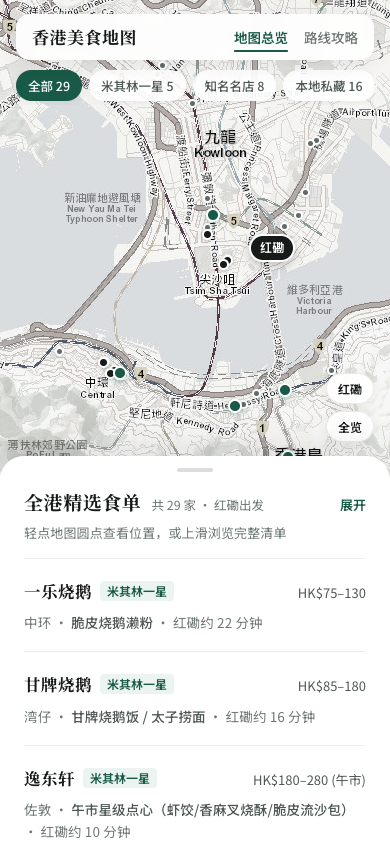
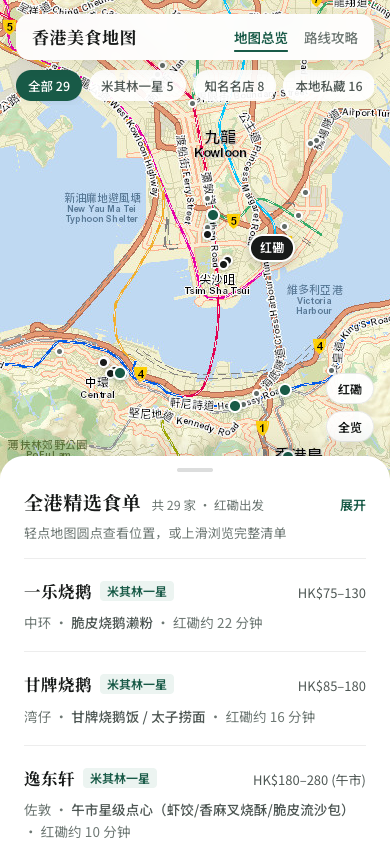
Restore full-color Esri navigation map tiles (v1.1.1)

diff --git a/index.html b/index.html
@@ -86,7 +86,7 @@
 
           <footer class="drawer-footer">
             <div class="footer-left">
-              <span>v1.1.0</span>
+              <span>v1.1.1</span>
               <span aria-hidden="true">·</span>
               <button type="button" class="text-btn" id="copyWechatBtn">复制微信食单</button>
             </div>
@@ -131,7 +131,7 @@
 
         <footer class="drawer-footer guide-footer">
           <div class="footer-left">
-            <span>香港美食地图 · v1.1.0</span>
+            <span>香港美食地图 · v1.1.1</span>
             <span aria-hidden="true">·</span>
             <button type="button" class="text-btn" id="copyWechatGuideBtn">复制微信食单</button>
           </div>

diff --git a/styles.css b/styles.css
@@ -110,10 +110,6 @@ button:focus-visible, a:focus-visible {
   bottom: 210px;
 }
 
-.hk-map .leaflet-tile-pane {
-  filter: grayscale(78%) saturate(0.45) brightness(1.06) contrast(0.94);
-}
-
 /* Floating Top Header + Single-Accent Chips */
 .float-header {
   position: absolute;
